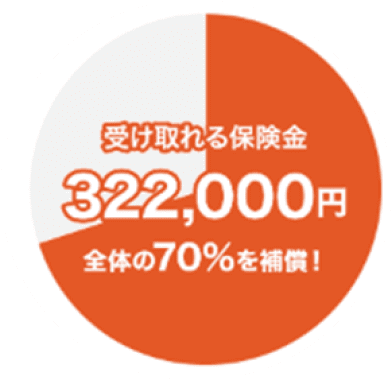
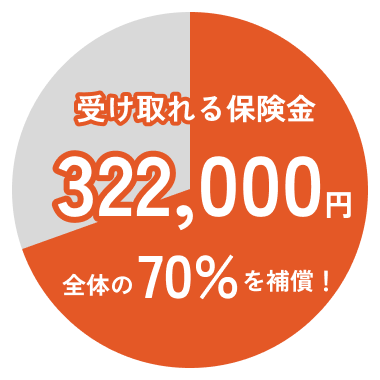
fix: pet-dog/features.html 1205_ペット保険チェック.xlsx

diff --git a/pc/pet-dog/features.html b/pc/pet-dog/features.html
@@ -87,27 +87,22 @@
           itemtype="http://schema.org/ListItem"
           aria-current="page"
         >
-          特長<meta itemprop="position" content="4" />
+          ワンポの特長<meta itemprop="position" content="4" />
         </li>
       </ol>
     </nav>
 
     <main class="l-main l-container lg:-full sm:-full js-main">
       <div class="p-pet-mv-image u-mt-5 sm:u-mt-2">
-        <div class="p-pet-mv-image__img">
+        <h1 class="p-pet-mv-image__img">
           <picture>
             <source srcset="/pc/pet/assets/img/pet_mv_pc.webp" media="(min-width:768px)" type="image/webp" />
             <img src="/pc/pet/assets/img/pet_mv_sp.webp" alt="ワンちゃんのために欲しい安心そろってる
             au損保のワンコの保険　ワンポの特長
             ワンちゃんは大切な家族の一員だから安心して選べる保険をご用意しました
             " loading="eager" />
-            <source srcset="/pc/pet/assets/img/pet_mv_pc.webp" media="(min-width:768px)" type="image/webp" />
-            <img src="/pc/pet/assets/img/pet_mv_sp.webp" alt="ワンちゃんのために欲しい安心そろってる
-            au損保のワンコの保険　ワンポの特長
-            ワンちゃんは大切な家族の一員だから安心して選べる保険をご用意しました
-            " loading="eager" />
           </picture>
-        </div>
+        </h1>
       </div>
       <!-- /.p-pet-mv-image -->
       <div class="c-point-box__items">
@@ -163,7 +158,7 @@
                   <source srcset="/pc/pet/assets/img/pet_chart01.webp" type="image/webp" />
                   <img
                     src="/pc/pet/assets/img/pet_chart01.png"
-                    alt="受け取れる保険金 322,000円 全体の70%を補償！"
+                    alt="受け取れる保険金 322,000円全体の70%を補償"
                     loading="lazy"
                   />
                 </picture>
@@ -181,10 +176,10 @@
               </div>
               <figure class="p-pet-cat-feature__card-img u-mt-4">
                 <picture>
-                  <source srcset="/pc/pet/assets/img/pet_chart01.webp" type="image/webp" />
+                  <source srcset="/pc/pet/assets/img/pet_chart03.webp" type="image/webp" />
                   <img
-                    src="/pc/pet/assets/img/pet_chart01.png"
-                    alt="受け取れる保険金 322,000円 全体の70%を補償！"
+                    src="/pc/pet/assets/img/pet_chart03.png"
+                    alt="受け取れる保険金 60,100円全体の70%を補償"
                     loading="lazy"
                   />
                 </picture>
@@ -229,7 +224,7 @@
                 <source srcset="/pc/pet/assets/img/pet_chart02.webp" type="image/webp" />
                 <img
                   src="/pc/pet/assets/img/pet_chart02.png"
-                  alt="受け取れる保険金 322,000円 全体の70%を補償！"
+                  alt="96.3% ※4"
                   loading="lazy"
                 />
               </picture>
@@ -238,7 +233,7 @@
               <p>保険金のお支払いは、獣医師が監修。<br />親身に、丁寧に対応いたします。</p>
             </div>
             <div class="c-point-box__sub">
-              <p>
+              <p class="u-text-indent-1">
                 ※2020年4月から9月までの6か月間、保険金をお受け取りいただいたお客さまを対象にアンケートを実施。アンケート回答件数214件中「満足した」「どちらかというと満足した」を集計
               </p>
             </div>
@@ -480,8 +475,8 @@
                 <p class="u-text-16 u-text-bold sm:u-hidden">iPhoneの方はこちらから</p>
                 <a href="https://anipos.co.jp/r/i" target="_blank" class="p-pet-cat-feature__anipos-download-link u-mt-2">
                   <picture>
-                    <source srcset="/common_2024/img/btn_download_app.webp" type="image/webp" />
-                    <img src="/common_2024/img/btn_download_app.png" alt="AppStoreからダウンロード" loading="lazy" />
+                    <source srcset="/pc/keiyakusya/assets/img/icon_appstore.webp" type="image/webp" />
+                    <img src="/pc/keiyakusya/assets/img/icon_appstore.png" alt="App Storeからダウンロード" loading="eager" />
                   </picture>
                 </a>
               </div>
@@ -497,8 +492,8 @@
                 <p class="u-text-16 u-text-bold sm:u-hidden">Androidの方はこちらから</p>
                 <a href="https://anipos.co.jp/r/a" target="_blank" class="p-pet-cat-feature__anipos-download-link u-mt-2">
                   <picture>
-                    <source srcset="/common_2024/img/btn_download_google.webp" type="image/webp" />
-                    <img src="/common_2024/img/btn_download_google.png" alt="GooglePlayで手に入れよう" loading="lazy" />
+                    <source srcset="/pc/keiyakusya/assets/img/icon_googleplay.webp" type="image/webp" />
+                    <img src="/pc/keiyakusya/assets/img/icon_googleplay.png" alt="Google Playで手に入れよう" loading="eager" />
                   </picture>
                 </a>
               </div>
@@ -512,14 +507,14 @@
 
       <h2 class="c-heading2-has-line">
         <span class="u-text-primary u-text-16 u-text-center u-block"
-          >さらに、ご契約者さまとペットの生活をサポート</span
+          >さらに、ご契約者さまと<br class="lg:u-hidden">ペットの生活をサポート</span
         >無料アプリ「ペットの家」
       </h2>
       <div class="u-flex u-justify-center u-mt-6 p-pet-cat-feature__pethouse-wrap">
         <figure class="p-pet-cat-feature__pethouse-img u-mr-10">
           <picture>
             <source srcset="/pc/pet/assets/img/pet_cat_pet_house.webp" type="image/webp" />
-            <img src="/pc/pet/assets/img/pet_cat_pet_house.png" alt="" loading="lazy" />
+            <img src="/pc/pet/assets/img/pet_cat_pet_house.png" alt="ペットの家：アプリイメージ画面" loading="lazy" />
           </picture>
         </figure>
         <div>
@@ -538,8 +533,8 @@
                 </figure>
                 <a href="https://itunes.apple.com/jp/app/n-reader/id927295207" target="_blank" class="p-pet-cat-feature__pethouse-download-link u-mt-2">
                   <picture>
-                    <source srcset="/common_2024/img/btn_download_app.webp" type="image/webp" />
-                    <img src="/common_2024/img/btn_download_app.png" alt="AppStoreからダウンロード" loading="lazy" />
+                    <source srcset="/pc/keiyakusya/assets/img/icon_appstore.webp" type="image/webp" />
+                    <img src="/pc/keiyakusya/assets/img/icon_appstore.png" alt="App Storeからダウンロード" loading="eager" />
                   </picture>
                 </a>
               </div>
@@ -555,8 +550,8 @@
                 </figure>
                 <a href="https://play.google.com/store/apps/details?id=jp.co.ausonpo.petnoie_android" target="_blank" class="p-pet-cat-feature__pethouse-download-link u-mt-2">
                   <picture>
-                    <source srcset="/common_2024/img/btn_download_google.webp" type="image/webp" />
-                    <img src="/common_2024/img/btn_download_google.png" alt="GooglePlayで手に入れよう" loading="lazy" />
+                    <source srcset="/pc/keiyakusya/assets/img/icon_googleplay.webp" type="image/webp" />
+                    <img src="/pc/keiyakusya/assets/img/icon_googleplay.png" alt="Google Playで手に入れよう" loading="eager" />
                   </picture>
                 </a>
               </div>
@@ -577,14 +572,14 @@
           </h4>
         </div>
         <div class="p-pet-application__box u-mt-4 sm:u-mt-5">
-          <a href="/pca/popup_mbt.htm|?tPet=1">
+          <a href="/pca/popup_aute_pet_20140401?tPet=1">
             <p class="p-pet-application__box-btn--yes">
               <strong>通院あり</strong>タイプ<br class="lg:u-hidden" />お申込み<span class="lg:u-hidden"
                 >はこちら</span
               >
             </p>
           </a>
-          <a href="/pca/popup_mbt.html?tPet=0">
+          <a href="/pca/popup_aute_pet_20140401?tPet=0">
             <p class="p-pet-application__box-btn--no">
               <strong>通院なし</strong>タイプ<br class="lg:u-hidden" />お申込み<span class="lg:u-hidden"
                 >はこちら</span
@@ -793,7 +788,7 @@
       </div>
 
       <section itemscope itemtype="http://schema.org/FAQPage">
-        <h2 class="c-heading2-has-line">よくある質問</h2>
+        <h2 class="c-heading2-has-line">よくあるご質問</h2>
         <ol class="c-faq l-container lg:-md u-mt-12">
           <li itemprop="mainEntity" itemscope itemtype="http://schema.org/Question" class="c-faq__item">
             <h3 itemprop="name" class="c-faq__title js-accordion-toggle-btn">保険料はどのように支払うのですか？</h3>
@@ -801,10 +796,10 @@
               <div itemprop="text" class="c-faq__content">
                 保険料のお支払い方法は、クレジットカード払、auかんたん決済、au PAY、コンビニ払となります。ただし、「ゴルフの保険」、「国内旅行の保険」および「海外旅行の保険」にお申込みの場合には、コンビニエンスストアでのお支払いはお選びいただけません。<br><br>
                 <span class="u-text-gray">
-                  ※auかんたん決済は、月々のau携帯電話料金と合算して決済するお支払い方法です。<br><br>
-                  ※auかんたん決済の一時払では、Pontaポイントを1ポイント＝1円相当でご利用いただけます。<br><br>
-                  ※当サイトの au PAY は、KDDI株式会社が運営する au PAY（ネット支払い）です。<br><br>
-                  チャージされた au PAY 残高を利用して保険料をお支払いいただくことができます。<br><br>
+                  ※auかんたん決済は、月々のau携帯電話料金と合算して決済するお支払い方法です。<br>
+                  ※auかんたん決済の一時払では、Pontaポイントを1ポイント＝1円相当でご利用いただけます。<br>
+                  ※当サイトの au PAY は、KDDI株式会社が運営する au PAY（ネット支払い）です。<br>
+                  チャージされた au PAY 残高を利用して保険料をお支払いいただくことができます。<br>
                   ※ 「自転車向け保険 Bycle」、「自転車向け保険 Bycle Best」、「自転車向け保険 Bycle S」、「ケガの保険 交通事故」、「ケガの保険 日常の事故」の保険期間1年のご契約、および「ペットの保険」をクレジットカード払またはauかんたん決済でお申込みの場合、月払をお選びいただくこともできます。
                 </span>
               </div>
@@ -823,21 +818,25 @@
             <div itemprop="acceptedAnswer" itemscope itemtype="http://schema.org/Answer" class="c-faq__wrapper js-accordion-toggle-content">
               <div itemprop="text" class="c-faq__content">
                 お申込み日時点において、治療中もしくは経過観察中の病気やケガがある場合、または、過去3か月以内に動物病院にて病気やケガの治療目的で診察を受けたことがある場合には、ご契約いただけません。また、以下の病気であると診断されたことがある場合には、ご契約をお引受けすることができません。<br><br>
-                ・悪性腫瘍　・腎疾患（腎不全など）<br>
+                ・悪性腫瘍<br>
+                ・腎疾患（腎不全など）<br>
                 ・免疫介在性溶血性貧血（IMHA)<br>
                 ・免疫介在性血小板減少症<br>
                 ・巨大食道症<br>
                 ・膵外分泌不全<br>
-                ・肝硬変　・門脈シャント<br>
+                ・肝硬変<br>
+                ・門脈シャント<br>
                 ・脳神経疾患（水頭症を含む）<br>
-                ・てんかん様発作、けいれん発作　・椎間板ヘルニア<br>
+                ・てんかん様発作、けいれん発作
+                <br>・椎間板ヘルニア<br>
                 ・心疾患（僧帽弁閉鎖不全症など）<br>
                 ・フィラリア症<br>
                 ・甲状腺機能亢進症<br>
                 ・甲状腺機能低下症<br>
                 ・副腎皮質機能低下症（アジソン病）<br>
                 ・副腎皮質機能亢進症（クッシングﾞ病）<br>
-                ・糖尿病　・猫伝染性腹膜炎（FIP)<br>
+                ・糖尿病<br>
+                ・猫伝染性腹膜炎（FIP)<br>
                 ・猫白血病（FeLV)<br>
                 ・猫後天性免疫不全症候群(FIV)<br>
                 なお、上記の病気以外でも、特定の疾病や特定の身体部位を補償の対象外とすることでお引受けをさせていただく場合もあります。詳しくはお申込み時の審査結果画面をご確認ください。
@@ -891,42 +890,54 @@
           </div>
           <p class="p-pet-column__head-text u-mt-6 sm:u-mt-3">飼い主の方のよくあるお悩みの<br class="lg:u-hidden">解決方法などを多数掲載しています</p>
         </div>
-        <div class="p-pet-column__body splide js-column-slider splide--loop splide--ltr splide--draggable is-active is-initialized" id="splide02" role="region" aria-roledescription="carousel">
-          <div class="splide__track splide__track--loop splide__track--ltr splide__track--draggable" id="splide02-track" aria-live="polite" aria-atomic="true" aria-busy="false" style="padding-left: 3.125rem; padding-right: 3.125rem;">
-            <div class="splide__list" id="splide02-list" role="presentation" style="transform: translateX(-2734.81px);">
-              <article class="p-pet-column__post-card splide__slide splide__slide--clone" id="splide02-clone01" role="tabpanel" aria-roledescription="slide" aria-label="1 of 3" style="margin-right: 3.125rem; width: calc(((100% + 3.125rem) / 3) - 3.125rem);" aria-hidden="true">
+        <div class="p-pet-column__body splide js-column-slider">
+          <div class="splide__track">
+            <div class="splide__list">
+              <article class="p-pet-column__post-card splide__slide">
                 <div class="p-pet-column__post-card-img">
                   <picture>
                     <source srcset="https://www.au-sonpo.co.jp/common/img/id0049.jpg" type="image/webp">
                     <img src="https://www.au-sonpo.co.jp/common/img/id0049.jpg" alt="" loading="lazy">
                   </picture>
                 </div>
-                <h3 class="p-pet-column__post-card-title">【犬の年齢ガイド】人間に例えると何歳？見た目で年齢を判断する方法を解説</h3>
-                <p class="p-pet-column__post-card-readmore"><a href="/pc/pet-dog/column/post-49.html" tabindex="-1">コラムを読む</a></p>
+                <h3 class="p-pet-column__post-card-title">
+                  【犬の年齢ガイド】人間に例えると何歳？見た目で年齢を判断する方法を解説
+                </h3>
+                <p class="p-pet-column__post-card-readmore">
+                  <a href="/pc/pet-dog/column/post-49.html">コラムを読む</a>
+                </p>
               </article>
-              <article class="p-pet-column__post-card splide__slide splide__slide--clone" id="splide02-clone02" role="tabpanel" aria-roledescription="slide" aria-label="2 of 3" style="margin-right: 3.125rem; width: calc(((100% + 3.125rem) / 3) - 3.125rem);" aria-hidden="true">
+              <article class="p-pet-column__post-card splide__slide">
                 <div class="p-pet-column__post-card-img">
                   <picture>
                     <source srcset="https://www.au-sonpo.co.jp/common/img/id0008.jpeg" type="image/webp">
                     <img src="https://www.au-sonpo.co.jp/common/img/id0008.jpeg" alt="" loading="lazy">
                   </picture>
                 </div>
-                <h3 class="p-pet-column__post-card-title">犬がトイレをわざと失敗する理由やしつけ方法、トレーニンググッズを解説</h3>
-                <p class="p-pet-column__post-card-readmore"><a href="/pc/pet-cat/column/post-34.html" tabindex="-1">コラムを読む</a></p>
+                <h3 class="p-pet-column__post-card-title">
+                  犬がトイレをわざと失敗する理由やしつけ方法、トレーニンググッズを解説
+                </h3>
+                <p class="p-pet-column__post-card-readmore">
+                  <a href="/pc/pet-cat/column/post-34.html">コラムを読む</a>
+                </p>
               </article>
-              <article class="p-pet-column__post-card splide__slide splide__slide--clone is-active" id="splide02-clone03" role="tabpanel" aria-roledescription="slide" aria-label="3 of 3" style="margin-right: 3.125rem; width: calc(((100% + 3.125rem) / 3) - 3.125rem);" aria-hidden="true">
+              <article class="p-pet-column__post-card splide__slide">
                 <div class="p-pet-column__post-card-img">
                   <picture>
                     <source srcset="https://www.au-sonpo.co.jp/common/img/id0025.jpeg" type="image/webp">
                     <img src="https://www.au-sonpo.co.jp/common/img/id0025.jpeg" alt="" loading="lazy">
                   </picture>
                 </div>
-                <h3 class="p-pet-column__post-card-title">犬の去勢手術はした方が良い？メリット・デメリットや費用など解説</h3>
-                <p class="p-pet-column__post-card-readmore"><a href="/pc/pet-dog/column/post-43.html" tabindex="-1">コラムを読む</a></p>
+                <h3 class="p-pet-column__post-card-title">
+                  犬の去勢手術はした方が良い？メリット・デメリットや費用など解説
+                </h3>
+                <p class="p-pet-column__post-card-readmore">
+                  <a href="/pc/pet-dog/column/post-43.html">コラムを読む</a>
+                </p>
               </article>
             </div>
           </div>
-          <ul class="splide__pagination splide__pagination--ltr" role="tablist" aria-label="Select a slide to show"><li role="presentation"><button class="splide__pagination__page p-pet-column-page" type="button" role="tab" aria-controls="splide02-slide01" aria-label="Go to slide 1" tabindex="-1"></button></li><li role="presentation"><button class="splide__pagination__page p-pet-column-page" type="button" role="tab" aria-controls="splide02-slide02" aria-label="Go to slide 2" tabindex="-1"></button></li><li role="presentation"><button class="splide__pagination__page p-pet-column-page is-active" type="button" role="tab" aria-controls="splide02-slide03" aria-label="Go to slide 3" aria-selected="true"></button></li></ul>
+          <ul class="splide__pagination"></ul>
         </div>
         <div class="p-pet-column__btn u-text-center">
           <a href="/pc/pet_column/column.html" class="c-btn -md">コラムTOPへ</a>
@@ -955,13 +966,13 @@
         <h4 class="p-column-cta__heading">保険タイプを選んでお申込みへ</h4>
         <ul class="p-column-cta__list">
           <li class="p-column-cta__item -primary">
-            <a href="/pca/popup_mbt.htm|?tPet=1">
+            <a href="/pca/popup_aute_pet_20140401?tPet=1">
               <h4 class="p-column-cta__title">＼ しっかり備える ／</h4>
               <p class="p-column-cta__text"><span>通院あり</span>タイプ<br />お申込みはこちら</p>
             </a>
           </li>
           <li class="p-column-cta__item -yellow">
-            <a href="/pca/popup_mbt.html?tPet=0">
+            <a href="/pca/popup_aute_pet_20140401?tPet=0">
               <h4 class="p-column-cta__title">＼ お得に備える ／</h4>
               <p class="p-column-cta__text"><span>通院なし</span>タイプ<br />お申込みはこちら</p>
             </a>

diff --git a/pc/pet-dog/index.html b/pc/pet-dog/index.html
@@ -104,7 +104,7 @@
         </div>
       </h1>
       <!-- /.p-pet-mv-images -->
-      <div class="p-pet-dog-manzokudo u-flex u-mt-6">
+      <div class="p-pet-dog-manzokudo u-flex u-mt-6 sm:u-hidden">
         <figure class="p-pet-dog-manzokudo__icon">
           <picture>
             <source srcset="/pc/pet/assets/img/pet_dog_manzokudo.webp" type="image/webp" />
@@ -119,7 +119,12 @@
             ※2：お支払いする保険金の合計は、各コースに設定された年間のお支払い限度額までとなります
           </p>
         </div>
-
+      </div>
+      <div class="p-pet-dog-manzokudo sm-min:u-hidden u-mt-4">
+        <picture>
+          <source srcset="/pc/pet/assets/img/pet_dog_manzokudo_sp.webp" type="image/webp" />
+          <img src="/pc/pet/assets/img/pet_dog_manzokudo_sp.png" alt="お客さま満足度93.4%" loading="eager" />
+        </picture>
       </div>
       <!-- /.p-pet-dog-manzokudo -->
       <p class="u-text-center u-mt-8">
